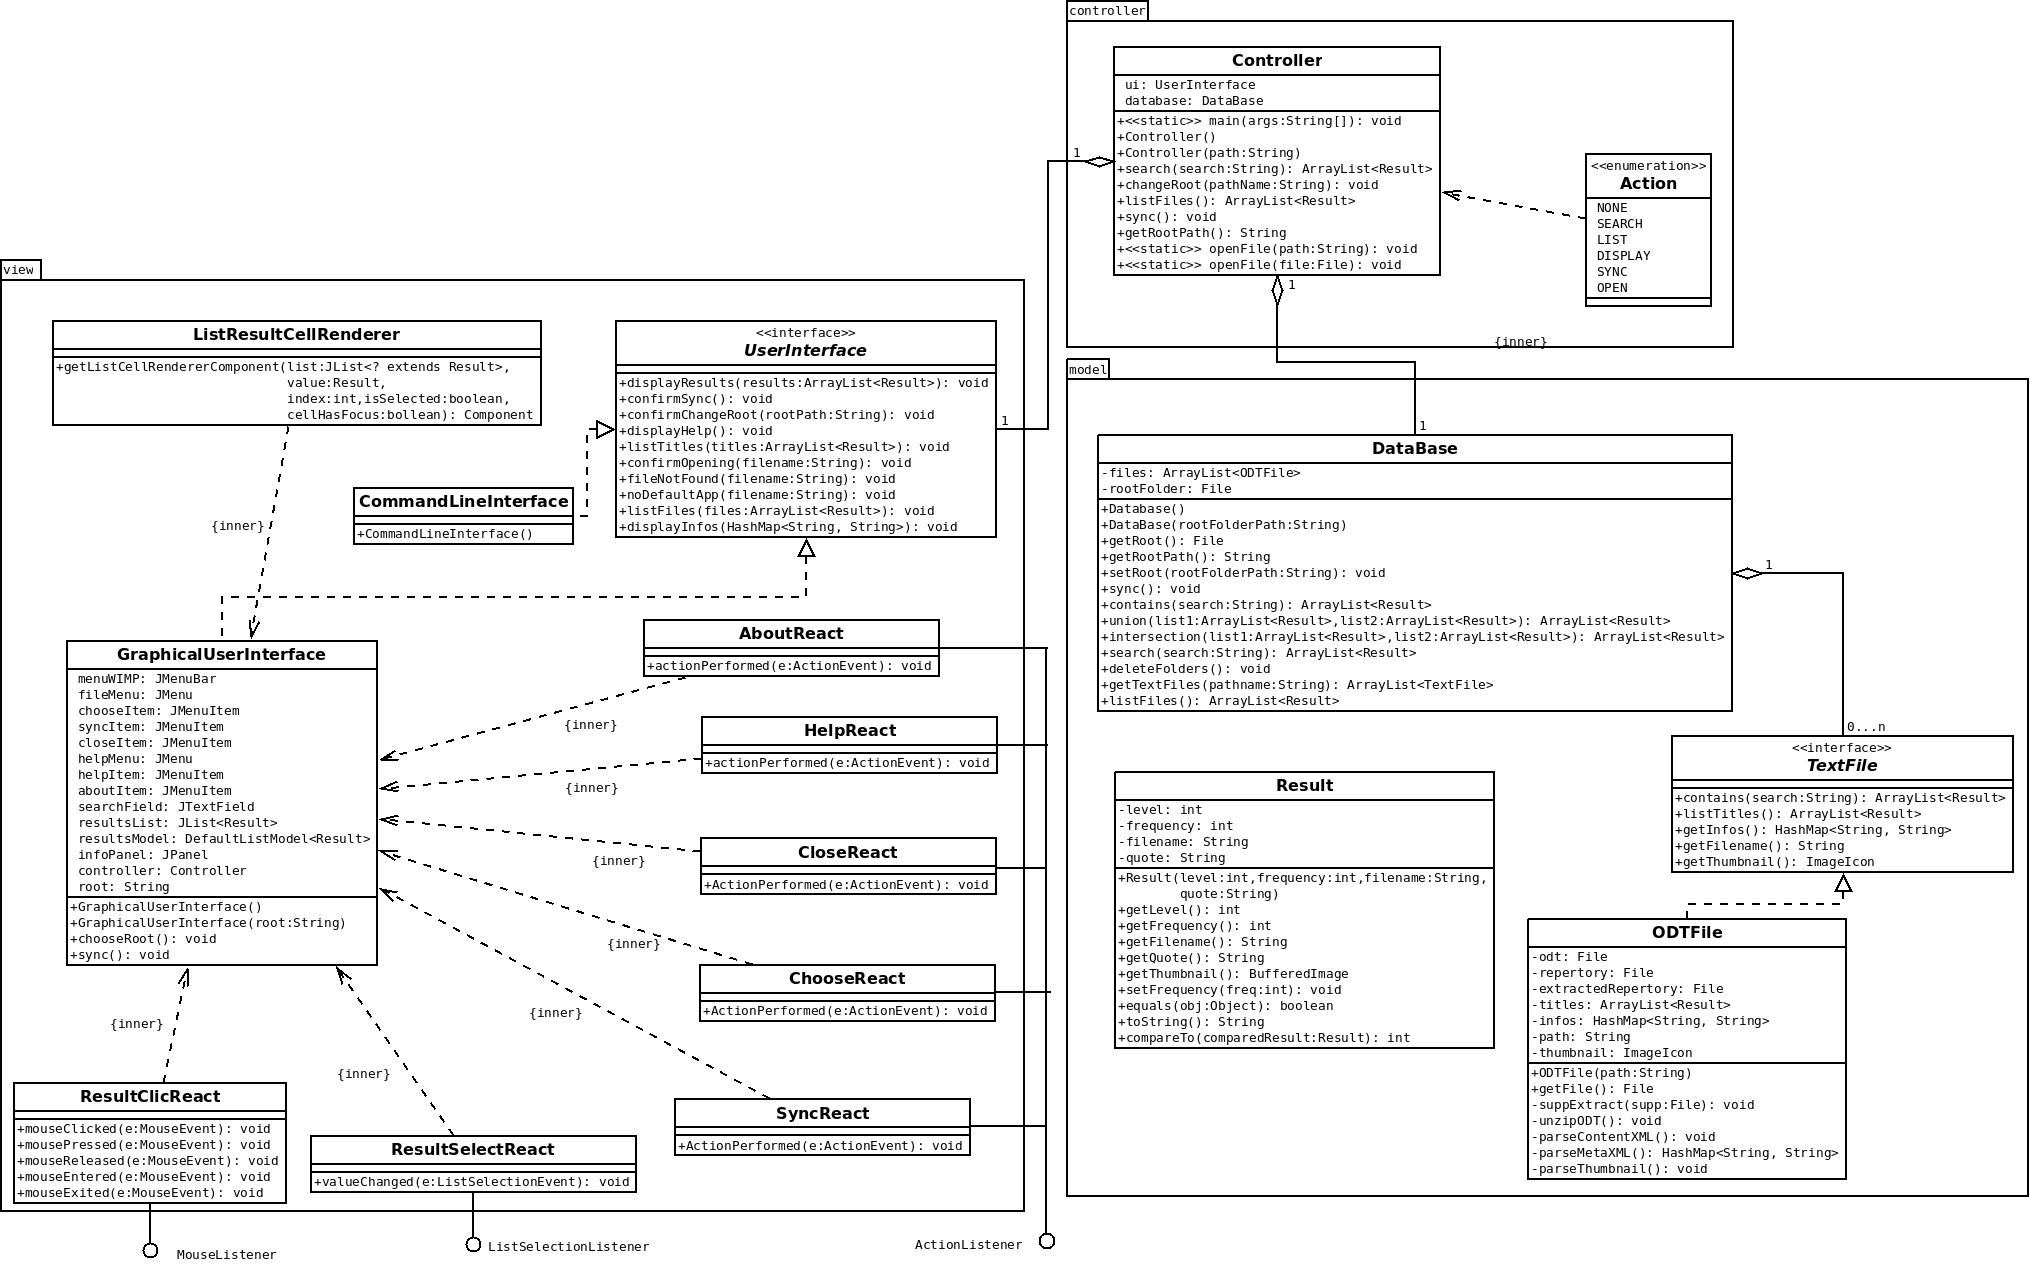
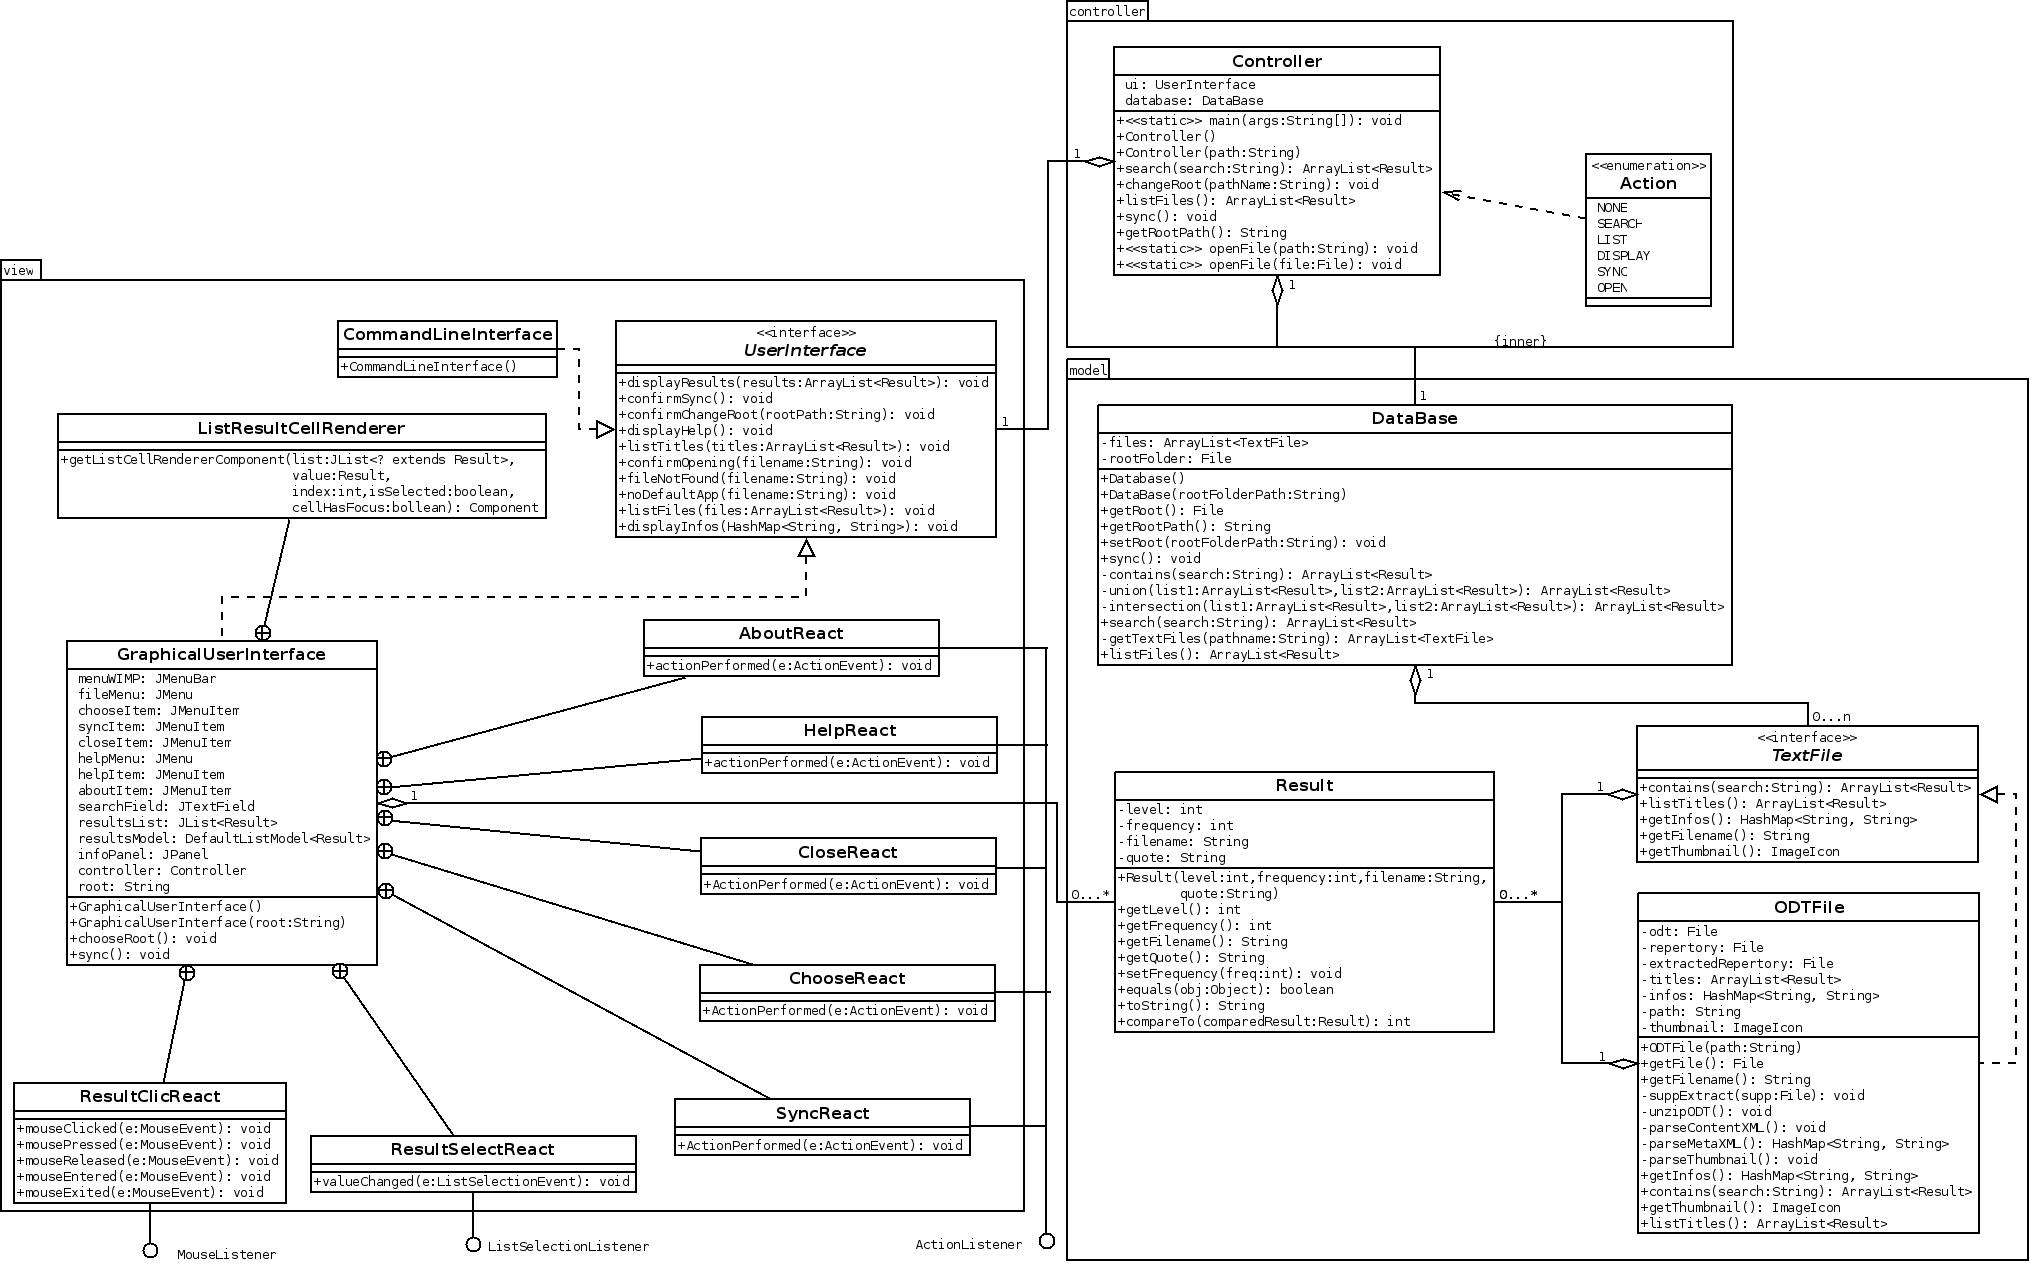
correct some uml errors

diff --git a/src/model/DataBase.java b/src/model/DataBase.java
@@ -127,7 +127,7 @@ public class DataBase {
 	 *            The expression to be searched
 	 * @return An ArrayList<Result> of results
 	 */
-	public ArrayList<Result> contains(String search) {
+	private ArrayList<Result> contains(String search) {
 		ArrayList<Result> results = new ArrayList<Result>(); // Return
 		ArrayList<Result> exam = null; // Stocks what we searched in a file
 
@@ -254,7 +254,7 @@ public class DataBase {
 	 *            The pathname to the directory to be inspected
 	 * @return an ArrayList<TextFile> within that directory
 	 */
-	public ArrayList<TextFile> getTextFiles(String pathname) {
+	private ArrayList<TextFile> getTextFiles(String pathname) {
 		File repertory = new File(pathname);
 
 		if (repertory.isDirectory()) {
